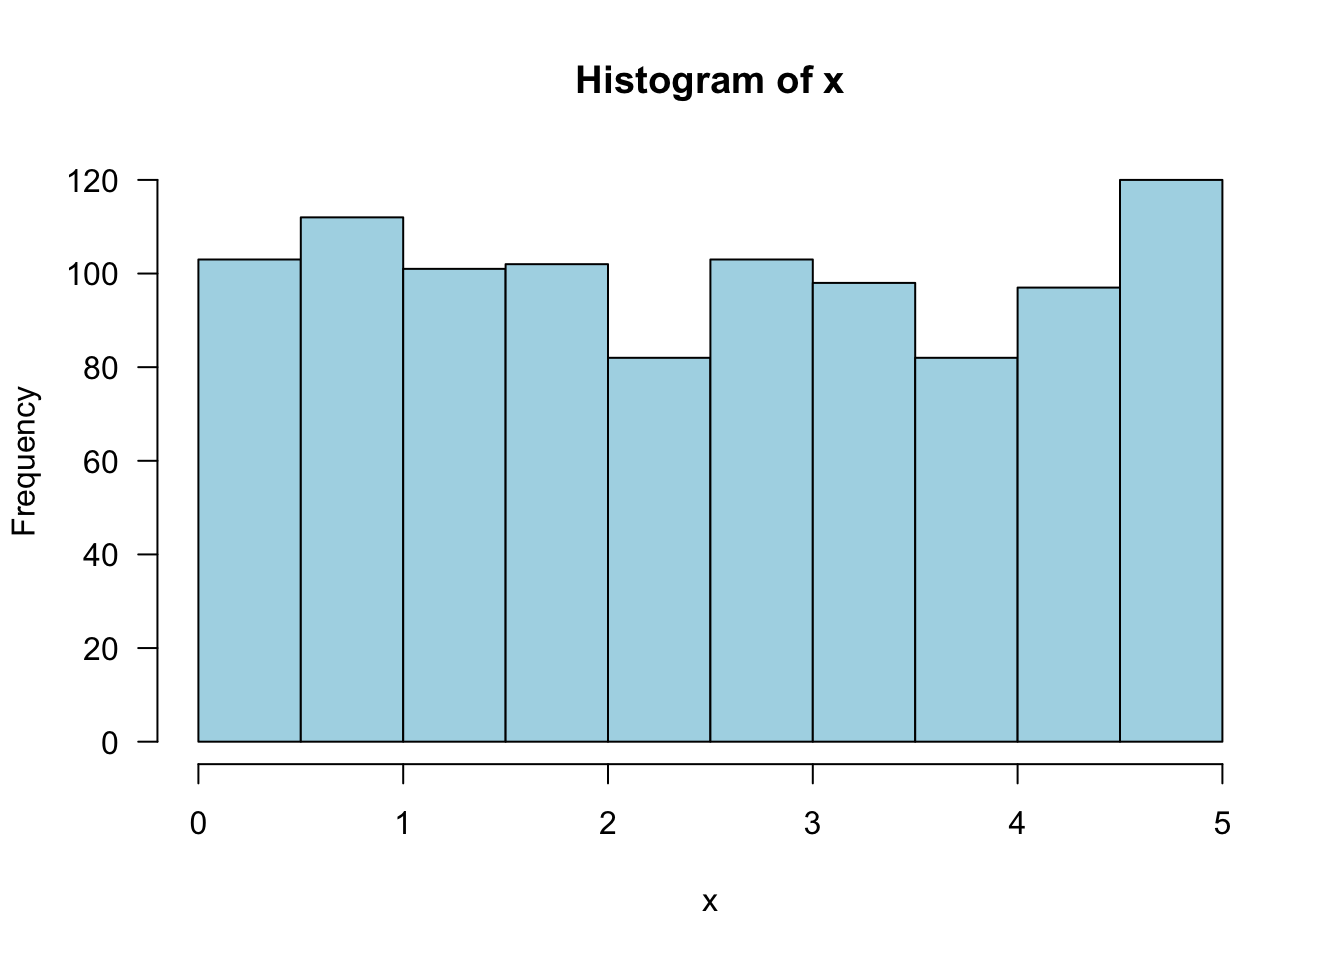
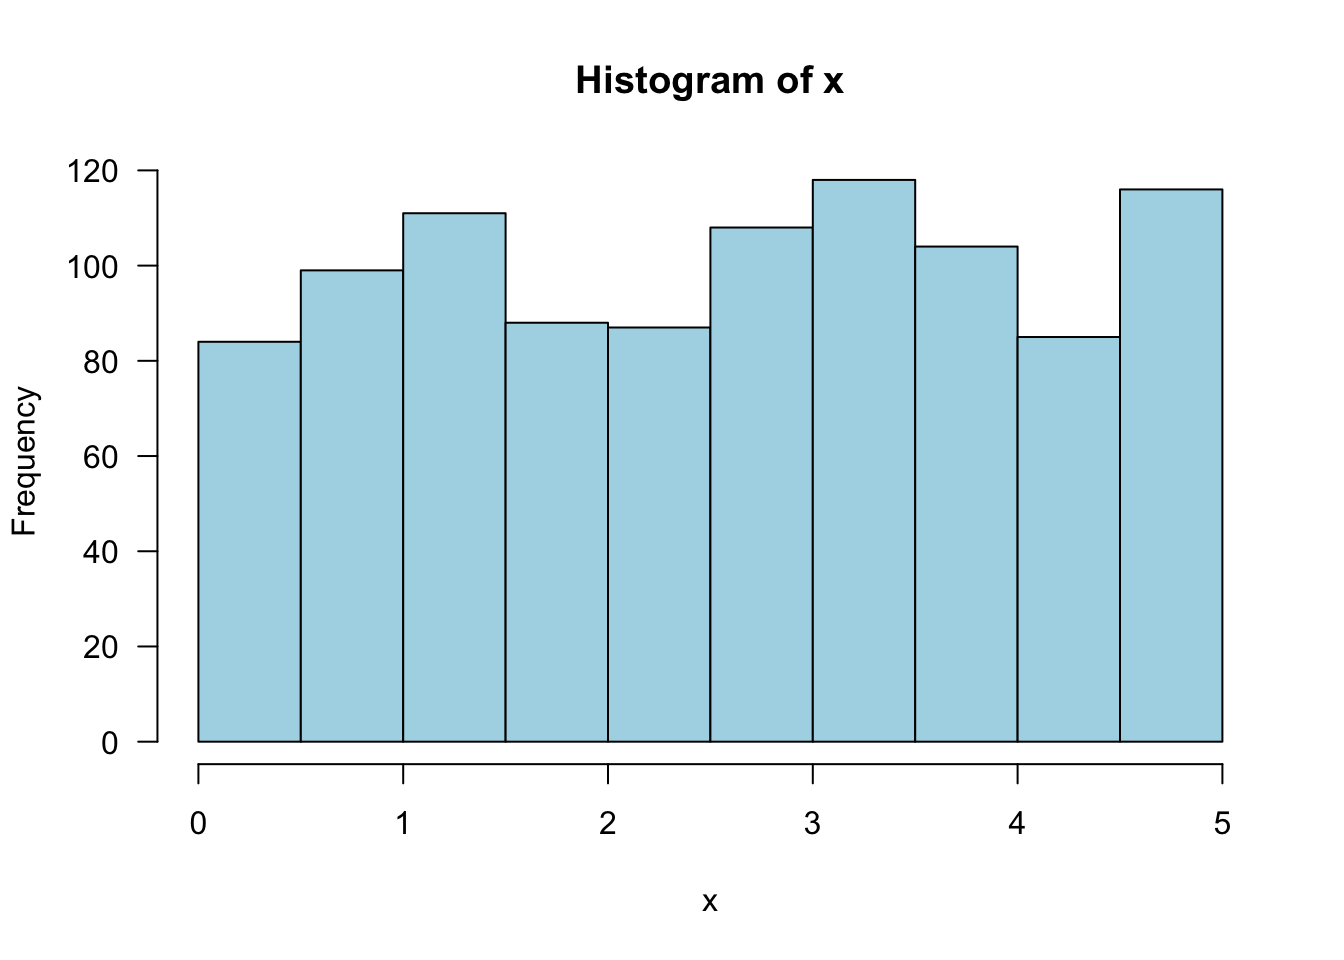
add office hours

diff --git a/docs/ch-4-continuous-random-variables-and-probability-distributions.html b/docs/ch-4-continuous-random-variables-and-probability-distributions.html
@@ -24,7 +24,7 @@
 <meta name="author" content="Joyce Robbins" />
 
 
-<meta name="date" content="2020-01-25" />
+<meta name="date" content="2020-01-27" />
 
   <meta name="viewport" content="width=device-width, initial-scale=1" />
   <meta name="apple-mobile-web-app-capable" content="yes" />
@@ -296,11 +296,11 @@ code span.wa { color: #60a0b0; font-weight: bold; font-style: italic; } /* Warni
 <p>Randomly choose one number from the distribution:</p>
 <p><span class="math inline">\(f(x) = .2\)</span> for <span class="math inline">\(0 \leq x \leq 5\)</span>, 0 otherwise.</p>
 <div class="sourceCode" id="cb140"><pre class="sourceCode r"><code class="sourceCode r"><a class="sourceLine" id="cb140-1" data-line-number="1"><span class="kw">runif</span>(<span class="dt">n =</span> <span class="dv">1</span>, <span class="dt">min =</span> <span class="dv">0</span>, <span class="dt">max =</span> <span class="dv">5</span>)</a></code></pre></div>
-<pre><code>## [1] 4.514922</code></pre>
+<pre><code>## [1] 2.542134</code></pre>
 <p>Take the average of 1000 picks:</p>
 <div class="sourceCode" id="cb142"><pre class="sourceCode r"><code class="sourceCode r"><a class="sourceLine" id="cb142-1" data-line-number="1">x &lt;-<span class="st"> </span><span class="kw">runif</span>(<span class="dt">n =</span> <span class="dv">1000</span>, <span class="dt">min =</span> <span class="dv">0</span>, <span class="dt">max =</span> <span class="dv">5</span>)</a>
 <a class="sourceLine" id="cb142-2" data-line-number="2"><span class="kw">mean</span>(x)</a></code></pre></div>
-<pre><code>## [1] 2.501308</code></pre>
+<pre><code>## [1] 2.55961</code></pre>
 <p>Draw a histogram of the 1000 picks:</p>
 <div class="sourceCode" id="cb144"><pre class="sourceCode r"><code class="sourceCode r"><a class="sourceLine" id="cb144-1" data-line-number="1"><span class="kw">hist</span>(x, <span class="dt">las =</span> <span class="dv">1</span>, <span class="dt">col =</span> <span class="st">&quot;lightblue&quot;</span>)</a></code></pre></div>
 <p><img src="STAT1201-resource_files/figure-html/unnamed-chunk-36-1.png" width="672" /></p>

diff --git a/docs/index.html b/docs/index.html
@@ -24,7 +24,7 @@
 <meta name="author" content="Joyce Robbins" />
 
 
-<meta name="date" content="2020-01-25" />
+<meta name="date" content="2020-01-27" />
 
   <meta name="viewport" content="width=device-width, initial-scale=1" />
   <meta name="apple-mobile-web-app-capable" content="yes" />
@@ -287,7 +287,7 @@ code span.wa { color: #60a0b0; font-weight: bold; font-style: italic; } /* Warni
 <div id="header">
 <h1 class="title">Stat 1201 Supplemental Materials</h1>
 <p class="author"><em>Joyce Robbins</em></p>
-<p class="date"><em>2020-01-25</em></p>
+<p class="date"><em>2020-01-27</em></p>
 </div>
 <div id="course-material" class="section level1 unnumbered">
 <h1>Course material</h1>
@@ -306,7 +306,8 @@ code span.wa { color: #60a0b0; font-weight: bold; font-style: italic; } /* Warni
 <h2>Instructor</h2>
 <p>Joyce Robbins: <a href="mailto:jtr13@columbia.edu">jtr13@columbia.edu</a> tel: 212-853-1391</p>
 <p><strong>Please indicate your section (Mon/Wed or Tues/Thurs) somewhere in your email.</strong></p>
-<p>Office hours: TBD</p>
+<p>Office hours:</p>
+<p>Mondays, 1:10pm - 3:00pm, IAB 326</p>
 </div>
 <div id="teaching-assistants" class="section level2 unnumbered">
 <h2>Teaching assistants</h2>

diff --git a/docs/ch-1-descriptive-statistics.html b/docs/ch-1-descriptive-statistics.html
@@ -24,7 +24,7 @@
 <meta name="author" content="Joyce Robbins" />
 
 
-<meta name="date" content="2020-01-25" />
+<meta name="date" content="2020-01-27" />
 
   <meta name="viewport" content="width=device-width, initial-scale=1" />
   <meta name="apple-mobile-web-app-capable" content="yes" />

diff --git a/docs/ch-12-linear-regression.html b/docs/ch-12-linear-regression.html
@@ -24,7 +24,7 @@
 <meta name="author" content="Joyce Robbins" />
 
 
-<meta name="date" content="2020-01-25" />
+<meta name="date" content="2020-01-27" />
 
   <meta name="viewport" content="width=device-width, initial-scale=1" />
   <meta name="apple-mobile-web-app-capable" content="yes" />

diff --git a/docs/ch-13-nonlinear-and-multiple-regression.html b/docs/ch-13-nonlinear-and-multiple-regression.html
@@ -24,7 +24,7 @@
 <meta name="author" content="Joyce Robbins" />
 
 
-<meta name="date" content="2020-01-25" />
+<meta name="date" content="2020-01-27" />
 
   <meta name="viewport" content="width=device-width, initial-scale=1" />
   <meta name="apple-mobile-web-app-capable" content="yes" />

diff --git a/docs/ch-14-chi-squared-test.html b/docs/ch-14-chi-squared-test.html
@@ -24,7 +24,7 @@
 <meta name="author" content="Joyce Robbins" />
 
 
-<meta name="date" content="2020-01-25" />
+<meta name="date" content="2020-01-27" />
 
   <meta name="viewport" content="width=device-width, initial-scale=1" />
   <meta name="apple-mobile-web-app-capable" content="yes" />

diff --git a/docs/ch-2-conditional-probability.html b/docs/ch-2-conditional-probability.html
@@ -24,7 +24,7 @@
 <meta name="author" content="Joyce Robbins" />
 
 
-<meta name="date" content="2020-01-25" />
+<meta name="date" content="2020-01-27" />
 
   <meta name="viewport" content="width=device-width, initial-scale=1" />
   <meta name="apple-mobile-web-app-capable" content="yes" />

diff --git a/docs/ch-2-probability.html b/docs/ch-2-probability.html
@@ -24,7 +24,7 @@
 <meta name="author" content="Joyce Robbins" />
 
 
-<meta name="date" content="2020-01-25" />
+<meta name="date" content="2020-01-27" />
 
   <meta name="viewport" content="width=device-width, initial-scale=1" />
   <meta name="apple-mobile-web-app-capable" content="yes" />

diff --git a/docs/ch-3-discrete-distributions.html b/docs/ch-3-discrete-distributions.html
@@ -24,7 +24,7 @@
 <meta name="author" content="Joyce Robbins" />
 
 
-<meta name="date" content="2020-01-25" />
+<meta name="date" content="2020-01-27" />
 
   <meta name="viewport" content="width=device-width, initial-scale=1" />
   <meta name="apple-mobile-web-app-capable" content="yes" />

diff --git a/docs/ch-5-joint-probability.html b/docs/ch-5-joint-probability.html
@@ -24,7 +24,7 @@
 <meta name="author" content="Joyce Robbins" />
 
 
-<meta name="date" content="2020-01-25" />
+<meta name="date" content="2020-01-27" />
 
   <meta name="viewport" content="width=device-width, initial-scale=1" />
   <meta name="apple-mobile-web-app-capable" content="yes" />

diff --git a/docs/ch-5-random-samples.html b/docs/ch-5-random-samples.html
@@ -24,7 +24,7 @@
 <meta name="author" content="Joyce Robbins" />
 
 
-<meta name="date" content="2020-01-25" />
+<meta name="date" content="2020-01-27" />
 
   <meta name="viewport" content="width=device-width, initial-scale=1" />
   <meta name="apple-mobile-web-app-capable" content="yes" />

diff --git a/docs/ch-6-point-estimation.html b/docs/ch-6-point-estimation.html
@@ -24,7 +24,7 @@
 <meta name="author" content="Joyce Robbins" />
 
 
-<meta name="date" content="2020-01-25" />
+<meta name="date" content="2020-01-27" />
 
   <meta name="viewport" content="width=device-width, initial-scale=1" />
   <meta name="apple-mobile-web-app-capable" content="yes" />
